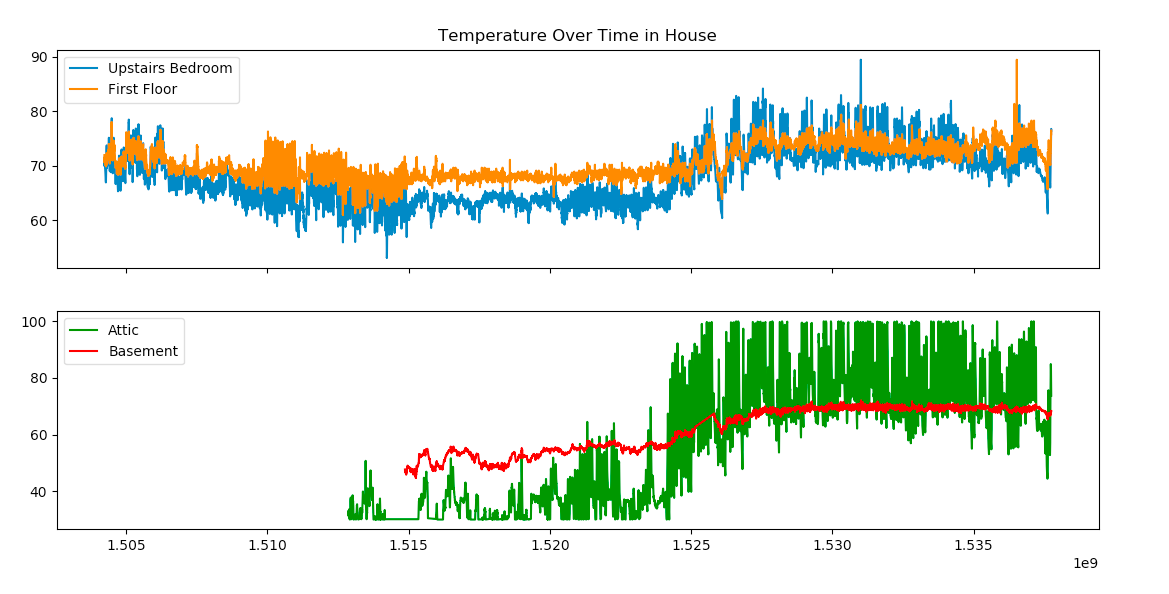
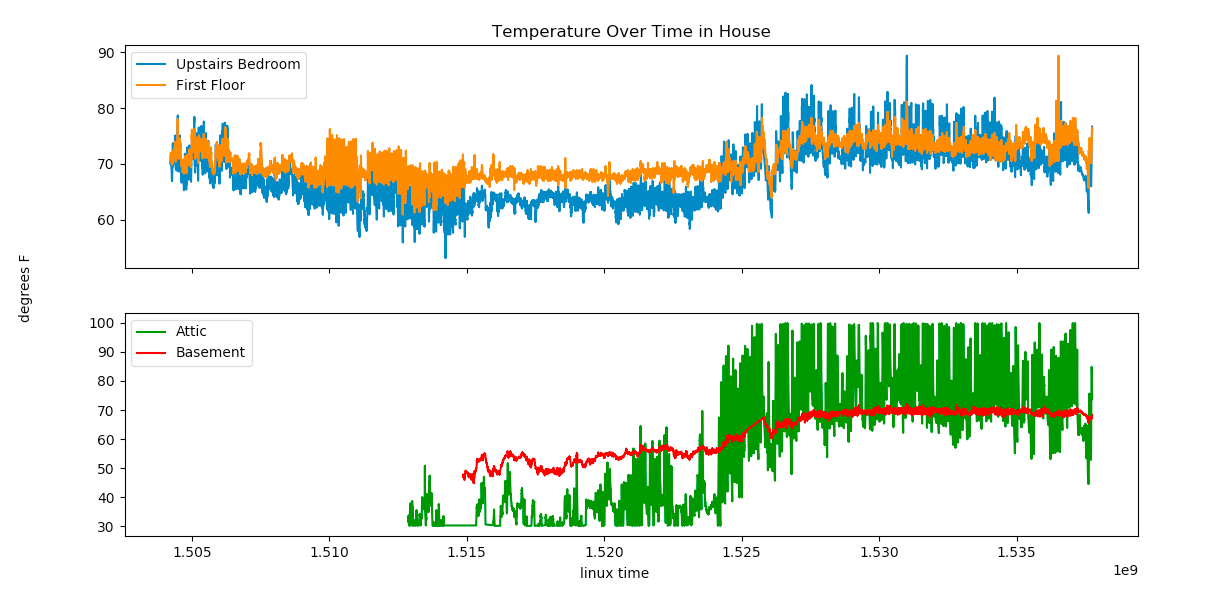
Improving plot.

diff --git a/processing/plottemp.py b/processing/plottemp.py
@@ -137,14 +137,43 @@ for i in range(len(temperature6)):
 
 
 # https://matplotlib.org/users/annotations_intro.html
+# https://matplotlib.org/users/annotations_intro.html
+"""
+Graph Note:
+The "list" method for plotting treats the plot as absolutes, allowing a common axis
 fig, ax = plt.subplots(nrows=2,ncols=1,sharex=True)
+ax[0], ax[1]
+
+The "subplot" method shown in this below comment for plotting just plots each plot
+on indepdent axis so that data does not show up on a true common timeseries.
+
+fig = plt.figure()
+ax = fig.add_subplot(111)    # The big subplot
+ax1 = fig.add_subplot(211)
+ax2 = fig.add_subplot(212)
+"""
+
+fig, ax = plt.subplots(nrows=2,ncols=1,sharex=True)
+
+# set the overall title
+ax[0].set_title('Temperature Over Time in House - Clipped Off >100dF & <30dF')
+
+# plot out on the top chart ax0
 ax[0].plot(validtimeroom0, validtemproom0, label='Upstairs Bedroom')
-ax[0].plot(validtimeroom1, validtemproom1, label='Ground Floor')
+ax[0].plot(validtimeroom1, validtemproom1, label='First Floor')
+# plot out on the bottom chart ax1
 ax[1].plot(validtimeroom3, validtemproom3,'g',label='Attic')
 ax[1].plot(validtimeroom6, validtemproom6,'r',label='Basement')
-ax[0].set_title('Temperature Over Time in House')
+
+# automatically get handle labels
 h1, l1 = ax[0].get_legend_handles_labels()
 h2, l2 = ax[1].get_legend_handles_labels()
+# place legends on chart
 ax[0].legend(h1, l1)
 ax[1].legend(h2, l2)
+
+# Set common labels with absolute positioning on chart
+fig.text(0.5, 0.05, 'linux time', ha='center', va='center')
+fig.text(0.05, 0.5, 'degrees F', ha='center', va='center', rotation='vertical')
+
 plt.show()
